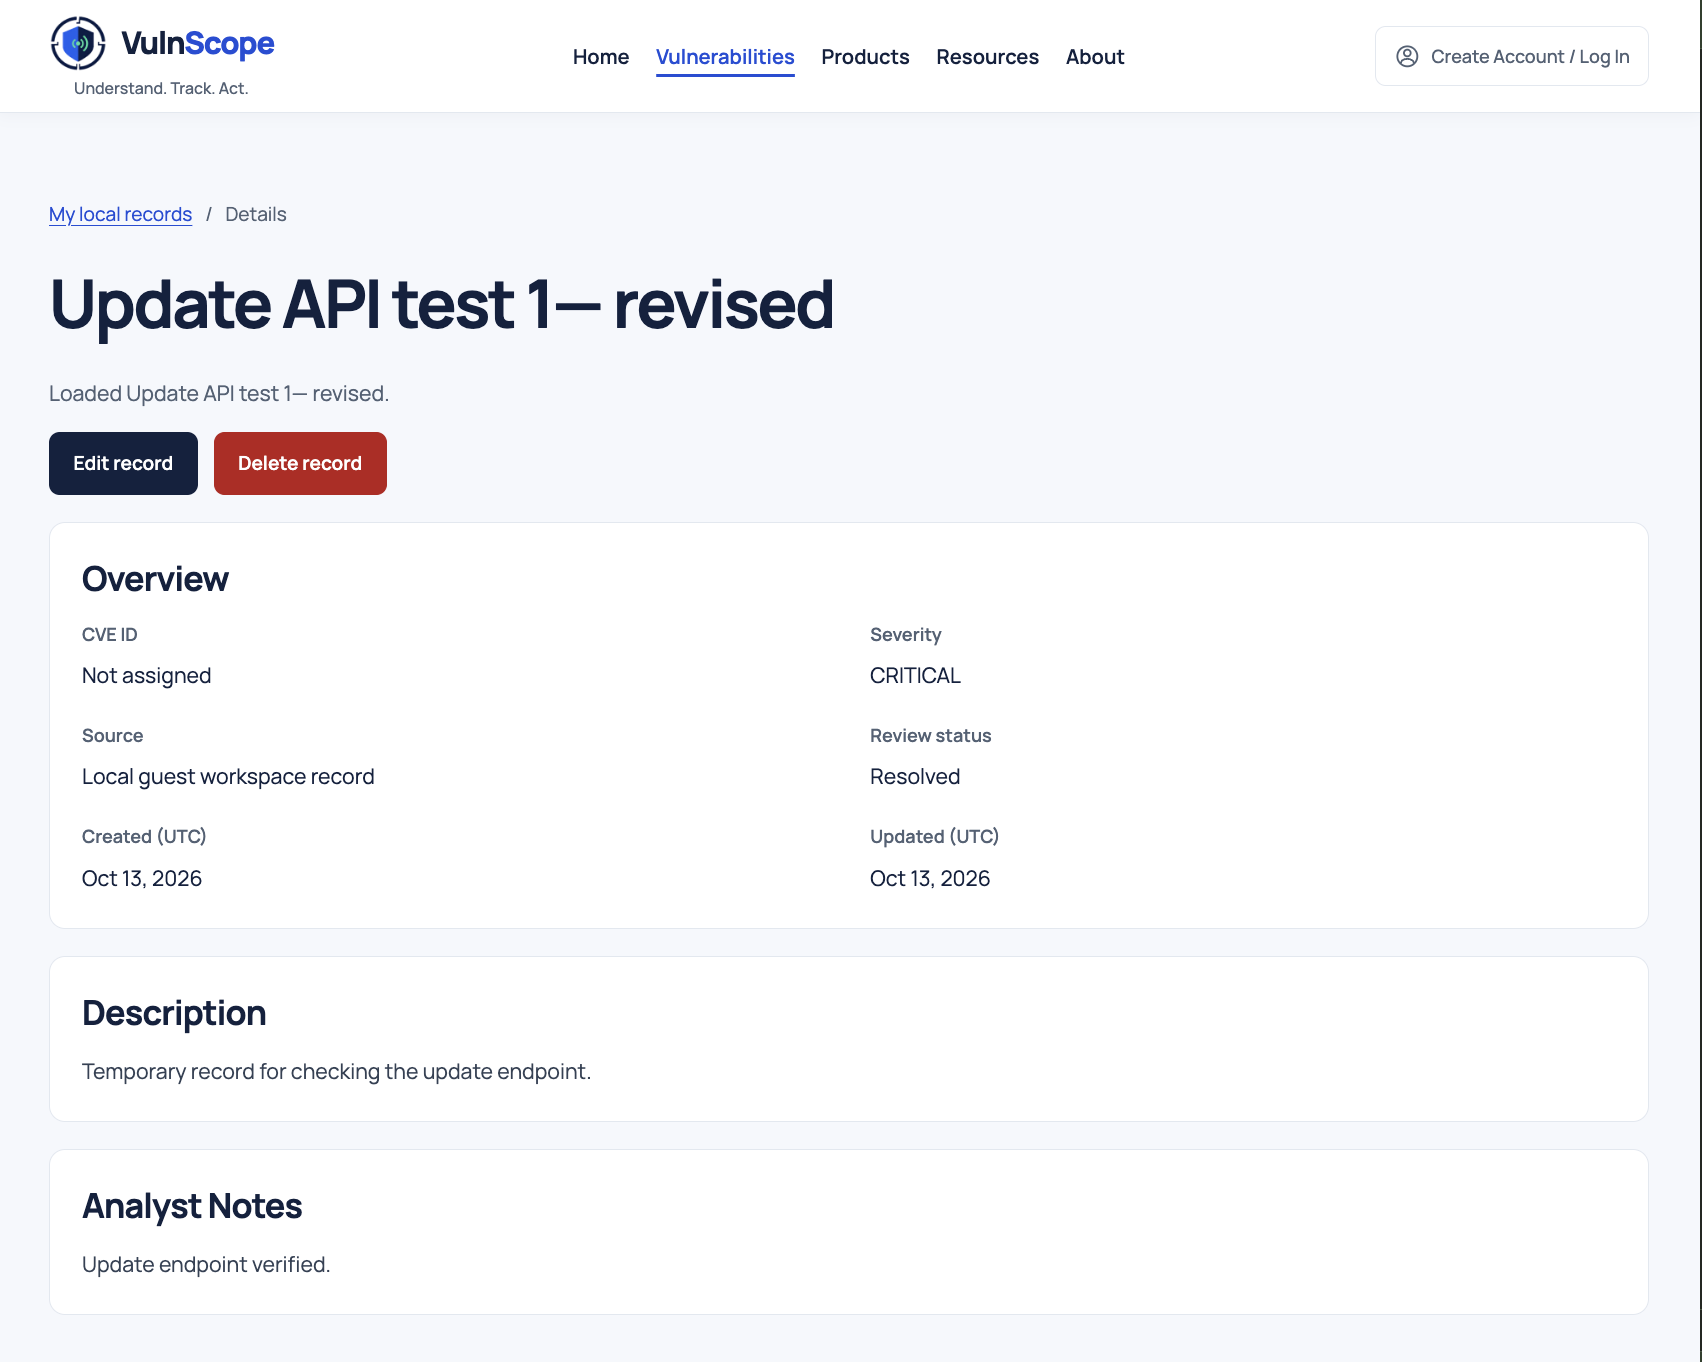
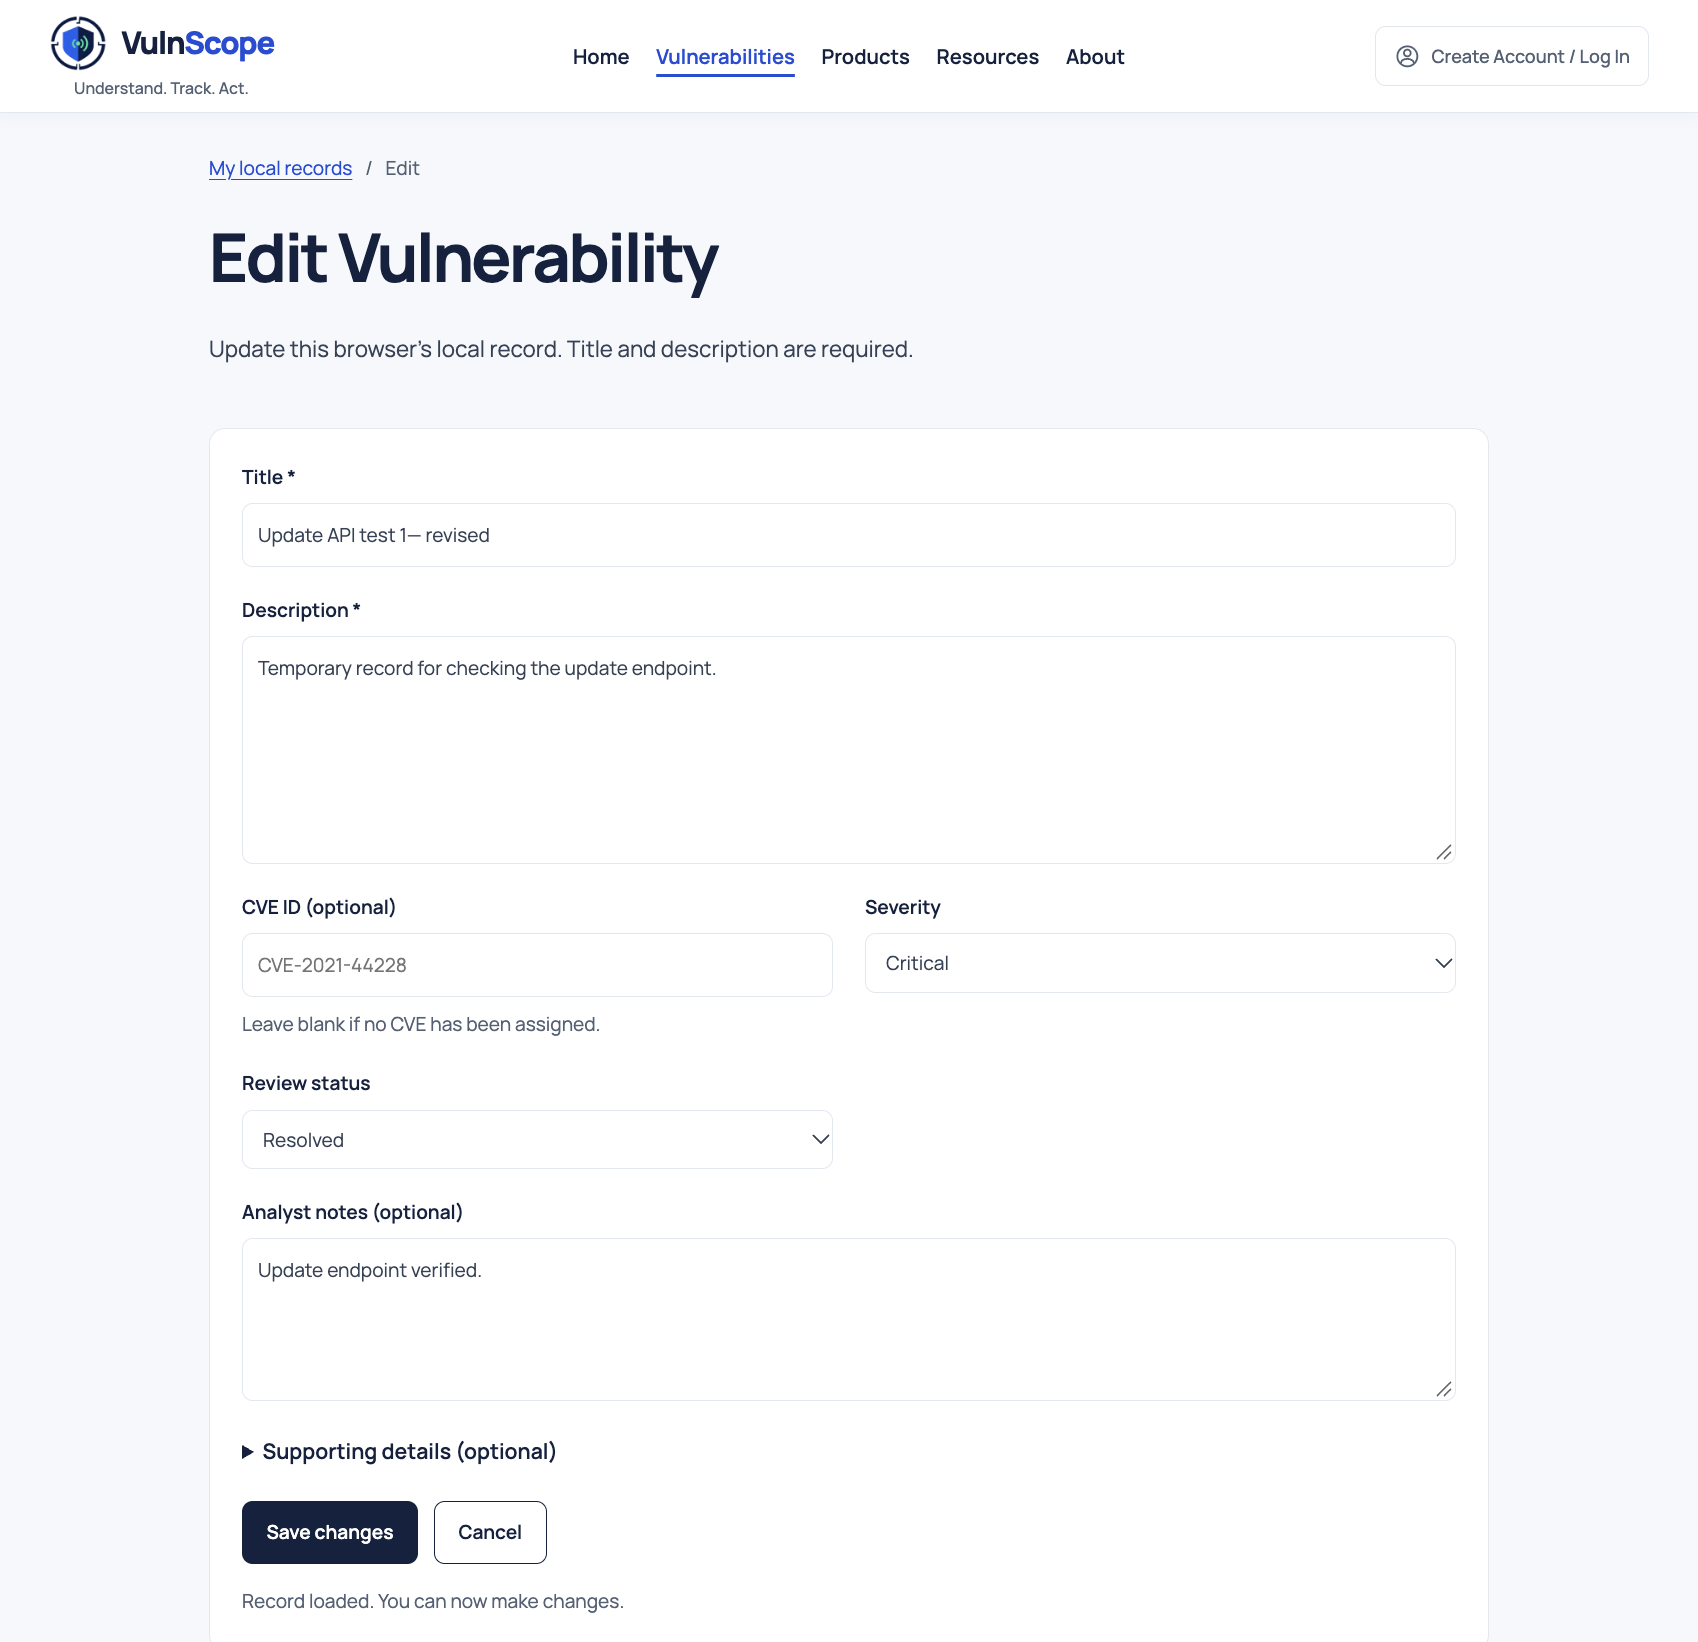
update to README and related files.

diff --git a/docs/mockup.md b/docs/mockup.md
@@ -1,7 +1,9 @@
-## Screenshot - Mockup
+## Design Mockups
 
-These are development captures of the running application, separate from
-the Figma mockups. Files are stored in `public/images/screenshots/`.
+These exported Figma wireframes illustrate planned layouts and workflows.
+Files are stored in `public/images/screenshots/mockups/`. They are separate
+from [running-application screenshots](dev.md) and do not prove that a
+feature has been implemented.
 
 ### Homepage
 
@@ -9,27 +11,22 @@ the Figma mockups. Files are stored in `public/images/screenshots/`.
 
 ### Vulnerabilities Workspace
 
-![VulnScope public CVE workspace with overview, filters, and records](../public/images/screenshots/mockups/vulnerabilities-mockup.png)
-
 Browse and search imported CVE records, filter vulnerabilities by severity and triage status, and review technical details alongside approachable explanations.
 
-### Vulnerability - Create/Add
+![VulnScope public CVE workspace with overview, filters, and records](../public/images/screenshots/mockups/vulnerabilities-mockup.png)
+
+### Vulnerability - Create a Local Record
 
 ![VulnScope create a record](../public/images/screenshots/mockups/add-vulnerability.png)
 
- Create a locally managed vulnerability record.
-
-### Vulnerability - Update/Edit
+### Vulnerability - Update a Local Record
 
 ![VulnScope update record](../public/images/screenshots/mockups/edit-vulnerability.png)
 
-Update triage status and analyst notes.
+### Vulnerability - Delete a Local Record
 
-### Vulnerability - Delete
-
+![VulnScope delete record](../public/images/screenshots/mockups/view-vulnerability.png)
 ![VulnScope delete record](../public/images/screenshots/mockups/delete-vulnerability.png)
-
-Delete locally managed vulnerability records.
 
 ### Products Workspace
 
@@ -42,5 +39,3 @@ Delete locally managed vulnerability records.
 ### About
 
 ![VulnScope About page purpose and workflow](../public/images/screenshots/mockups/about-mockup.png)
-
-

diff --git a/README.md b/README.md
@@ -11,7 +11,7 @@ organize locally managed security reviews.
 
 - **Live Site:** Pending — public deployment has not been completed.
 - **Repository:** [jpaintsil-neu/vulnscope](https://github.com/jpaintsil-neu/vulnscope)
-- **Progress Updated:** October 13, 2026
+- **Progress Updated:** October 14, 2026
 
 ## Authors
 
@@ -71,7 +71,7 @@ The homepage introduces the platform and its two workspaces.
 
 Implemented:
 
-- Minimal banner wallpaper.
+- Minimal navy gradient banner.
 - Shared logo, navigation, sticky header, and footer.
 - Working public vulnerability search by CVE ID or keyword.
 - Search navigation to the Vulnerabilities page with the query applied.
@@ -93,6 +93,7 @@ The workspace supports:
 - Add Vulnerability link to the local-record form.
 - Local review-status filtering: New, In review, and Resolved.
 - Active search, severity, and local review-status filters preserved in the URL.
+- Filter-aware overview cards and charts.
 
 ### Products — Pending Integration
 
@@ -276,8 +277,8 @@ Implemented considerations include:
 ### Homepage
 
 ![homepage thumbnail](public/images/screenshots/thumbnail.png)
-See the [dev](docs/dev.md).
 
+See [development screenshots](docs/dev.md) and [Figma design mockups](docs/mockup.md).
 
 ## Presentation and Demo Video
 
@@ -299,8 +300,6 @@ See the [dev](docs/dev.md).
 
 ## Generative AI Disclosure
 
-Generative AI has assisted portions of the Project 2.
-
 ### Tool and Model
 
 - **Tool:** ChatGPT / Codex.
@@ -309,7 +308,7 @@ Generative AI has assisted portions of the Project 2.
 
 ### How Generative AI Was Used
 
--
+- John Paintsil - ChatGPT was used as an iterative development assistant by supporting tasks such as reviewing project requirements, organizing information architecture, and refining design documentation to enhance overall project quality and accessibility.
 
 ## License
 

diff --git a/docs/dev.md b/docs/dev.md
@@ -1,7 +1,8 @@
 ## Screenshot - Dev
 
-These are development captures of the running application, separate from
-the Figma mockups. Files are stored in `public/images/screenshots/`.
+These captures show the running application. Files are stored in
+`public/images/screenshots/devs/`. Design mockups are documented separately
+in [mockup.md](mockup.md).
 
 ### Homepage
 
@@ -9,27 +10,22 @@ the Figma mockups. Files are stored in `public/images/screenshots/`.
 
 ### Vulnerabilities Workspace
 
-![VulnScope public CVE workspace with overview, filters, and records](../public/images/screenshots/devs/vulnerabilities-page.png)
-
 Browse and search imported CVE records, filter vulnerabilities by severity and triage status, and review technical details alongside approachable explanations.
 
-### Vulnerability - Create/Add
+![VulnScope public CVE workspace with overview, filters, and records](../public/images/screenshots/devs/vulnerabilities-page.png)
+
+### Vulnerability - Create a Local Record
 
 ![VulnScope create a record](../public/images/screenshots/devs/add-vulnerability.png)
 
- Create a locally managed vulnerability record.
-
-### Vulnerability - Update/Edit
+### Vulnerability - Update/Edit a Local Record
 
 ![VulnScope update record](../public/images/screenshots/devs/edit-vulnerability.png)
 
-Update triage status and analyst notes.
+### Vulnerability - Delete a Local Record
 
-### Vulnerability - Delete
-
+![VulnScope delete record](../public/images/screenshots/devs/view-vulnerability.png)
 ![VulnScope delete record](../public/images/screenshots/devs/delete-vulnerability.png)
-
-Delete locally managed vulnerability records.
 
 ### Products Workspace
 
@@ -42,6 +38,3 @@ Delete locally managed vulnerability records.
 ### About
 
 ![VulnScope About page purpose and workflow](../public/images/screenshots/devs/about.png)
-
-
-

diff --git a/docs/api.md b/docs/api.md
@@ -29,9 +29,42 @@ Complete CVE IDs use exact identifier matching in public searches.
 Other search text is treated as a literal, case-insensitive phrase across
 CVE ID, title, and description.
 
-Both lists return `records` and `pagination` containing `page`, `pageSize`,
-`total`, and `totalPages`. Page size is 20. Filtered records and counts use
-the same database filter.
+Both lists return `records`, `summary`, and `pagination`. Pagination contains
+`page`, `pageSize`, `total`, and `totalPages`. Page size is 20.
+Filtered records and counts use the same database filter.
+
+## List Summary
+
+The summary covers all records matching the applied filters across every
+page. Its total equals `pagination.total`.
+
+- Public CVEs use `groupBy: "severity"`.
+- Local records use `groupBy: "triageStatus"` and the requesting owner's filter.
+- Counts sum to `summary.total`; empty results return zero totals.
+
+Example public summary with illustrative counts:
+
+```json
+{
+  "groupBy": "severity",
+  "total": 12,
+  "counts": {
+    "CRITICAL": 2,
+    "HIGH": 4,
+    "MEDIUM": 5,
+    "LOW": 1,
+    "NONE": 0,
+    "UNKNOWN": 0
+  }
+}
+```
+
+Local count keys are `new`, `in-review`, `resolved`, and `UNKNOWN`.
+Missing or unrecognized values are grouped as `UNKNOWN`.
+
+The API retains all expected keys at zero. The public chart hides
+zero-count severity rows; known local review statuses remain visible at
+zero, and the local unknown row appears only when populated.
 
 ## Local Record Fields
 

diff --git a/docs/design.md b/docs/design.md
@@ -40,7 +40,7 @@ and product-specific search remain pending integration.
 
 ## Mockups and Shared References
 
-- [Desing Mockups](../docs/mockup.md)
+- [Design Mockups](mockup.md)
 - [Design Mockups — Index](https://docs.google.com/spreadsheets/d/1OPhlHSFipS1TBg5fY3gODJUL3W921hsAR03a6K-po7k/edit)
 
 The index organizes exported mockups and includes the editable Figma link.
@@ -56,6 +56,6 @@ Keep editable designs and exported references in their existing shared locations
 - Public source records are read-only; guest-owned local records support CRUD.
 - Table headings remain visible during scrolling, with pagination above the table.
 
-See the [dev.md](/docs/dev.md).
+See [development screenshots](dev.md) and [validation status](validation.md).
 
 [Back to project overview](../README.md)
